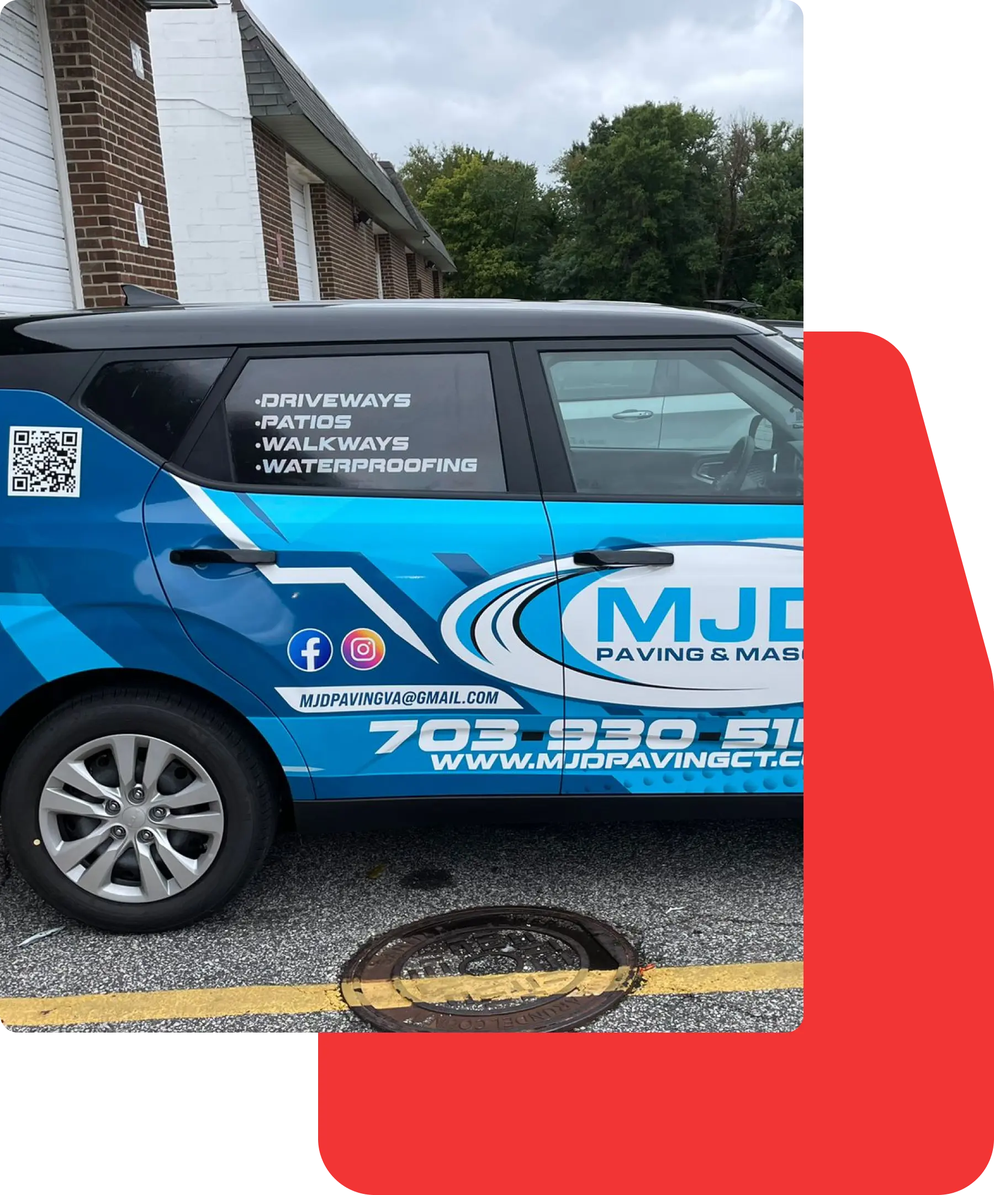
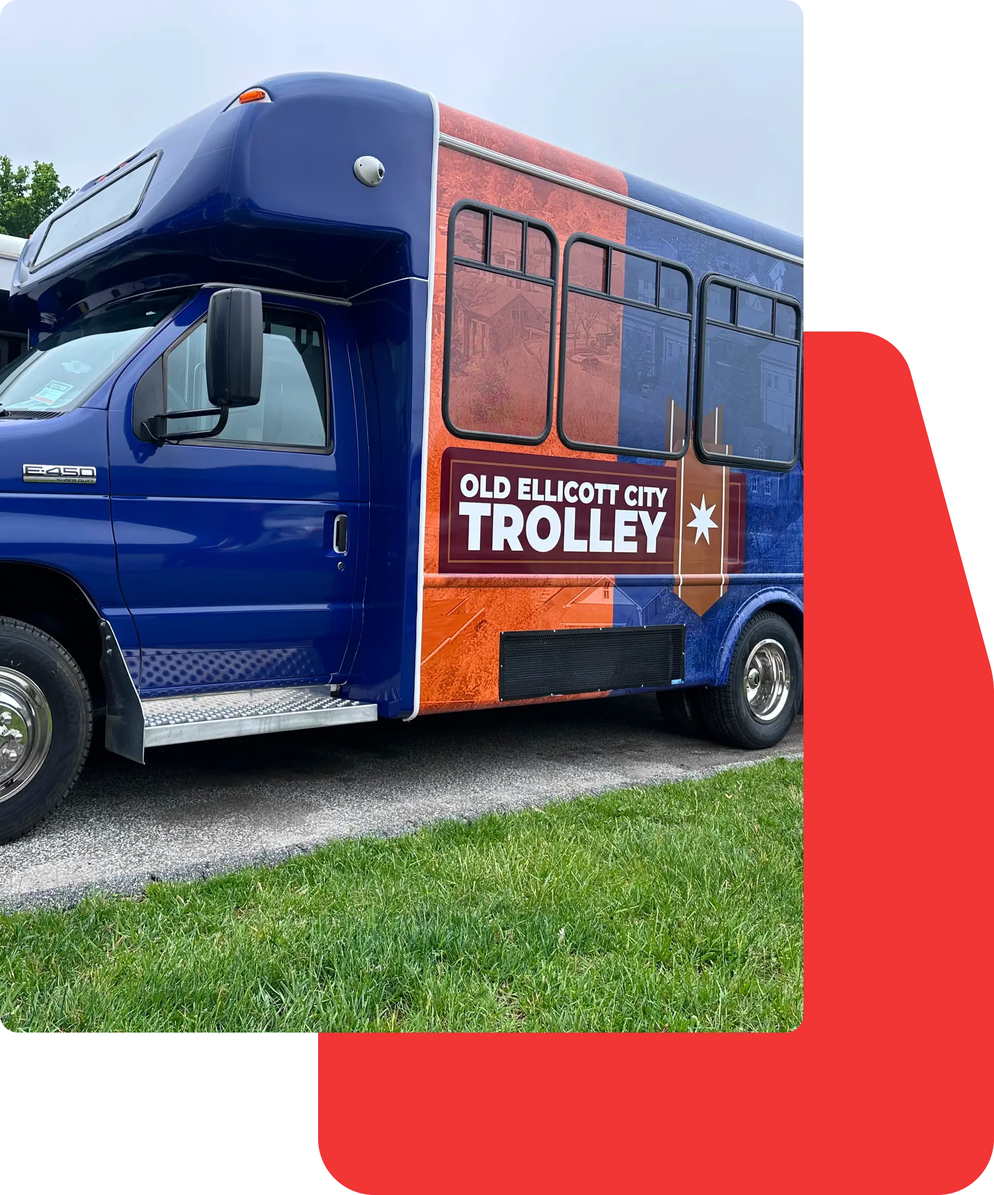
UPDATE IMAGES SEO

diff --git a/src/app/globals.css b/src/app/globals.css
@@ -419,11 +419,11 @@ paint-order: stroke fill;
 }
 
 .hero-banner-car-wrap-fleet {
-  background: url('/images/bg-banner-services.webp');
+  background: url('/images/bg-banner-services-fleet.webp');
   background-position: center;
   background-repeat: no-repeat;
   background-size: cover;
-  transform: scaleX(-1);
+  transform: scaleX(1);
 }
 
 .hero-banner-car-wrap-fleet-baltimore {
